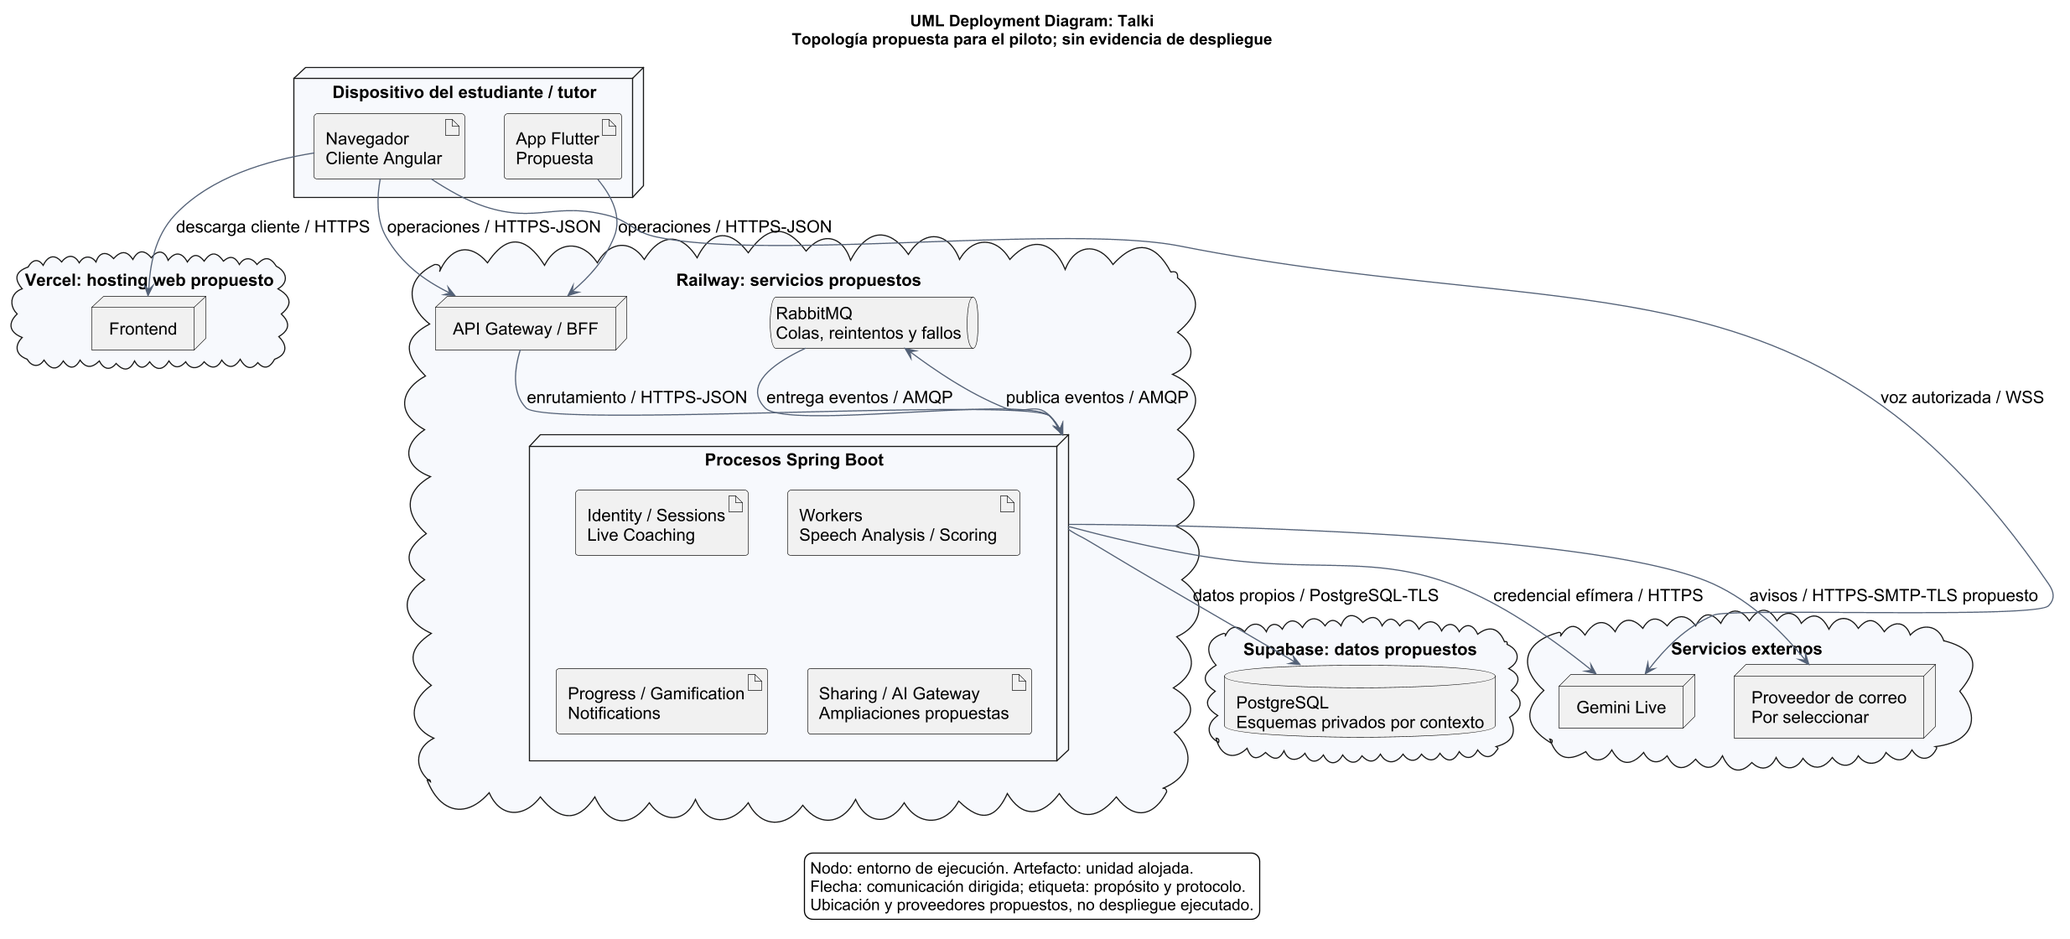
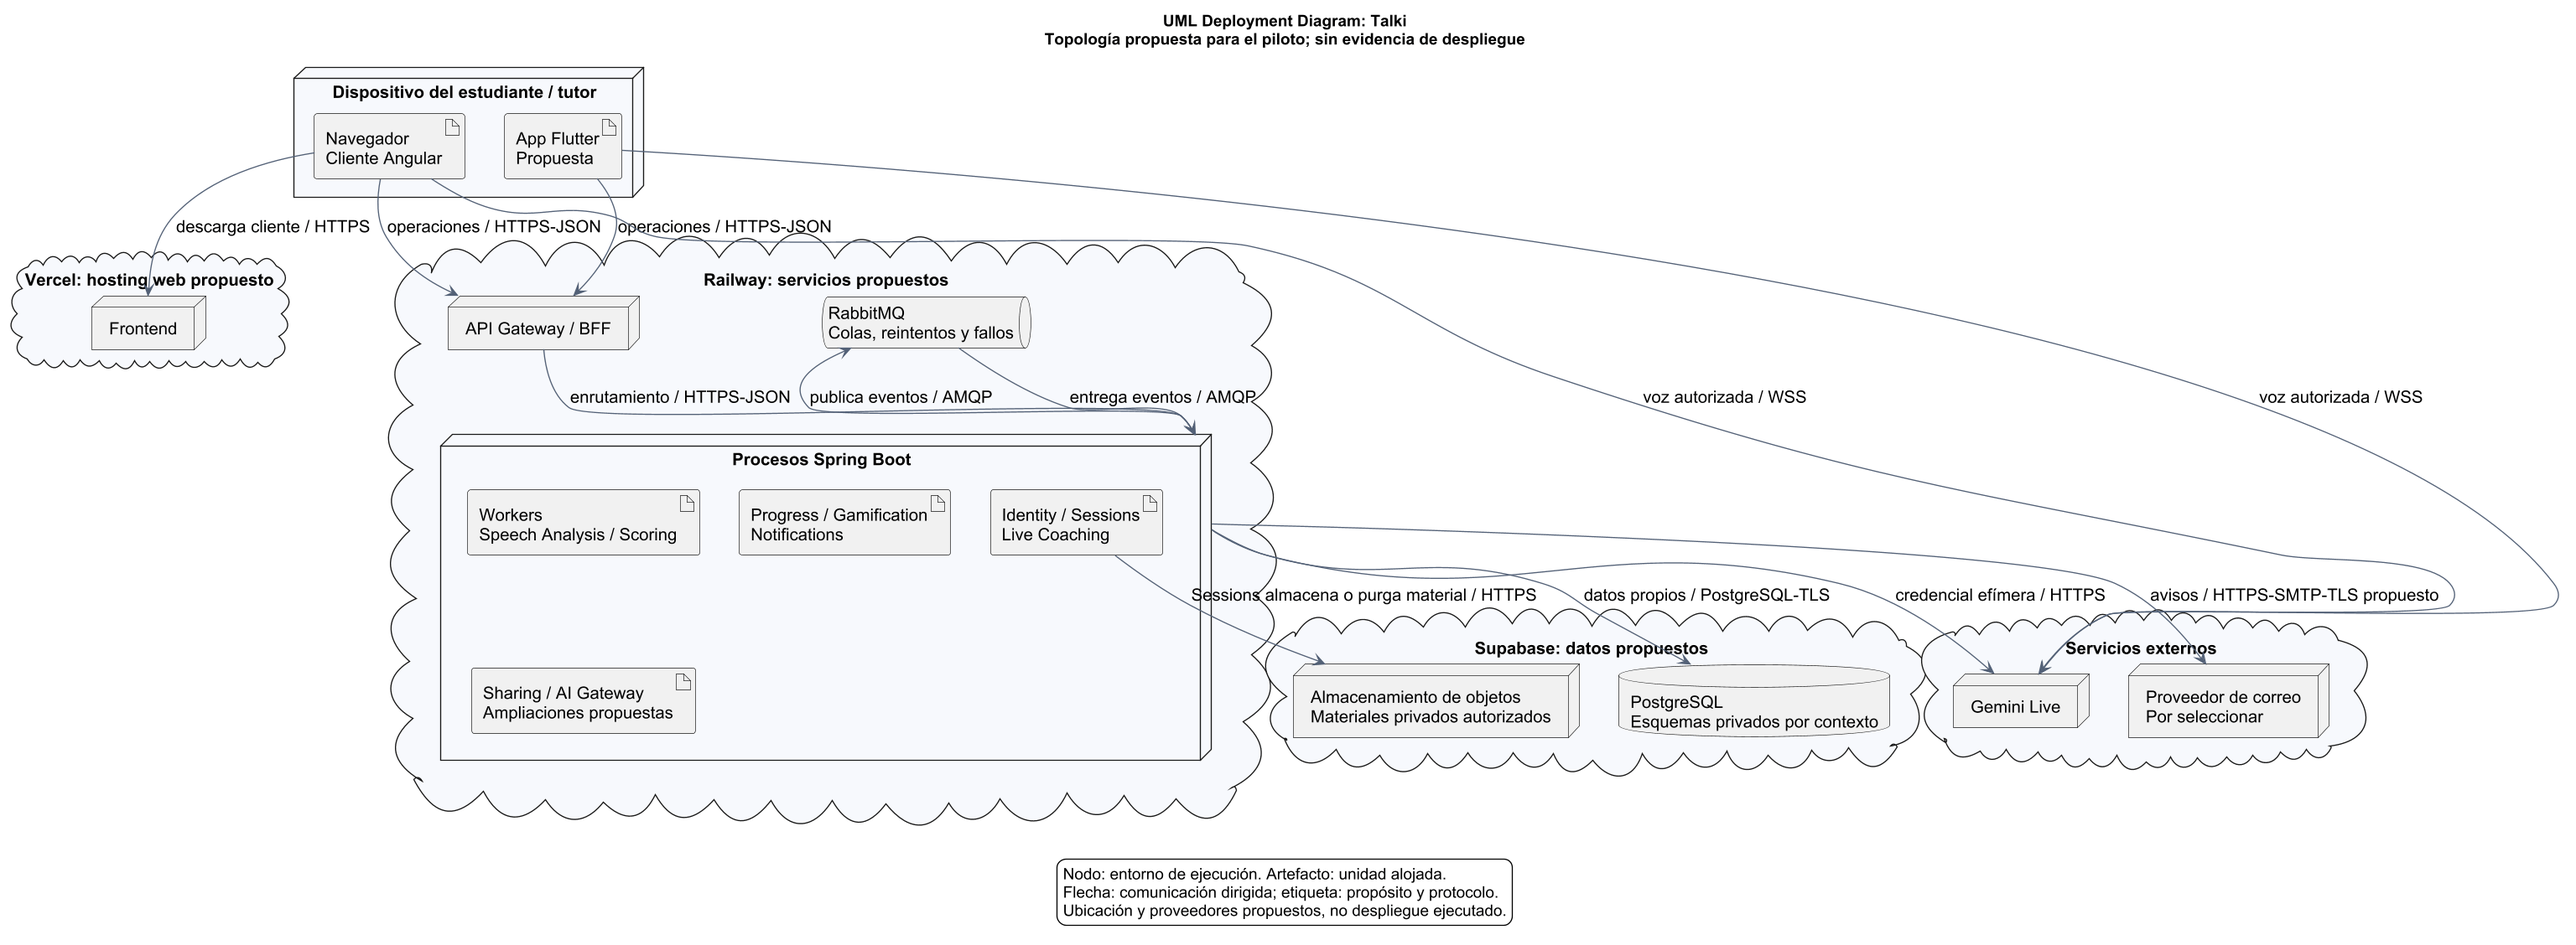
docs(architecture): alinea idioma, materiales y voz móvil
Alinea C-03 y AD-C03 con el diseño de interfaz bilingüe y separa el idioma de conversación. El despliegue representa el almacenamiento privado de Sessions y el canal WSS del cliente móvil. Topología propuesta, sin acreditar despliegue ejecutado.

diff --git a/README.md b/README.md
@@ -1467,7 +1467,7 @@ Cada escenario incluye fuente, estímulo, entorno, artefacto, respuesta y medida
 |---|---|---|
 | C-01 | La primera integración de conversación por voz utilizará Gemini Live API. | Es el proveedor disponible para el piloto; debe quedar aislado para evitar dependencia irreversible. |
 | C-02 | El audio crudo no se persistirá por defecto. | Reduce riesgo de privacidad y costo; solo podrá conservarse mediante consentimiento y una política explícita futura. |
-| C-03 | La experiencia inicial será web y en español. | El cliente deberá funcionar en navegadores modernos con permiso de micrófono; la terminología y rúbricas parten del contexto hispanohablante. |
+| C-03 | La experiencia inicial será web, con interfaz en_US por defecto y es_419 como alternativa. | El cliente deberá funcionar en navegadores modernos con permiso de micrófono. El idioma de conversación se configura por separado; la propuesta inicial de práctica y sus rúbricas parten del contexto hispanohablante. |
 | C-04 | Se reutilizará la base técnica existente de Talki: servicios Spring Boot, PostgreSQL y RabbitMQ. | La arquitectura debe evolucionar los activos previos y mantener compatibilidad razonable con sus contratos. |
 | C-05 | El equipo está formado por cinco estudiantes y trabaja bajo el calendario académico del curso. | Las decisiones deben ser implementables, observables y documentables dentro del semestre; se evitará fragmentación innecesaria. |
 | C-06 | El piloto opera con presupuesto limitado y servicios cloud administrados. | Se prioriza escalamiento gradual, límites de consumo y componentes open-source cuando no incrementen la carga operativa. |
@@ -1499,7 +1499,7 @@ Los candidatos se priorizan con dos dimensiones: importancia para stakeholders e
 | 14 | AD-Q07 | Calidad | Reducir fricción para iniciar una primera sesión válida. | H/M | QAS-USA-01. |
 | 15 | AD-C01 | Restricción | Usar la integración de voz disponible para el piloto, encapsulada tras una interfaz interna. | Restricción | C-01. |
 | 16 | AD-C02 | Restricción | No persistir audio crudo por defecto. | Restricción | C-02. |
-| 17 | AD-C03 | Restricción | Entregar una experiencia web en español. | Restricción | C-03. |
+| 17 | AD-C03 | Restricción | Entregar una experiencia web con interfaz en_US/es_419 y práctica inicial en español. | Restricción | C-03. |
 | 18 | AD-C04 | Restricción | Reutilizar Spring Boot, PostgreSQL y RabbitMQ. | Restricción | C-04. |
 | 19 | AD-C05 | Restricción | Mantener una solución realizable por cinco estudiantes durante el semestre. | Restricción | C-05, C-06. |
 | 20 | AD-C06 | Restricción | Operar con presupuesto limitado y servicios cloud administrados. | Restricción | C-05, C-06. |
@@ -2038,7 +2038,7 @@ Los almacenes de la figura agrupan infraestructura PostgreSQL, no propiedad comp
 
 ### 4.3.4. Deployment Diagrams
 
-El despliegue UML propone hosting del cliente web en Vercel, procesos Spring Boot y RabbitMQ en Railway, y PostgreSQL con TLS en Supabase. El navegador ejecuta la conversación con Gemini Live mediante WSS. Las peticiones de negocio utilizan HTTPS/JSON y los eventos internos utilizan AMQP. El acceso a datos respeta los esquemas de cada contexto aunque compartan infraestructura administrada.
+El despliegue UML propone hosting del cliente web en Vercel, procesos Spring Boot y RabbitMQ en Railway, y PostgreSQL con TLS y almacenamiento privado de materiales en Supabase. Sessions administra los archivos autorizados mediante HTTPS; los demás contextos reciben únicamente la evidencia permitida. Tanto el navegador como la aplicación móvil ejecutan la conversación con Gemini Live mediante WSS. Las peticiones de negocio utilizan HTTPS/JSON y los eventos internos utilizan AMQP. El acceso a datos respeta los esquemas de cada contexto aunque compartan infraestructura administrada.
 
 ![UML Deployment Diagram de Talki](assets/diagrams/c4/deployment.png)
 
